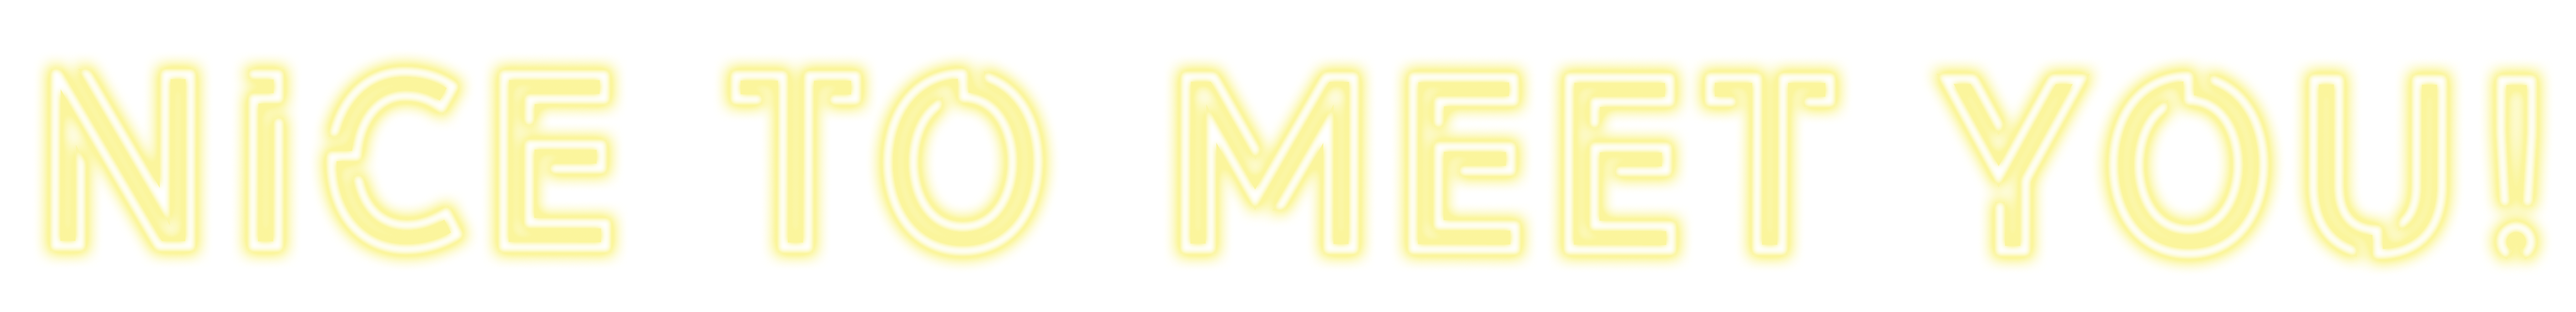
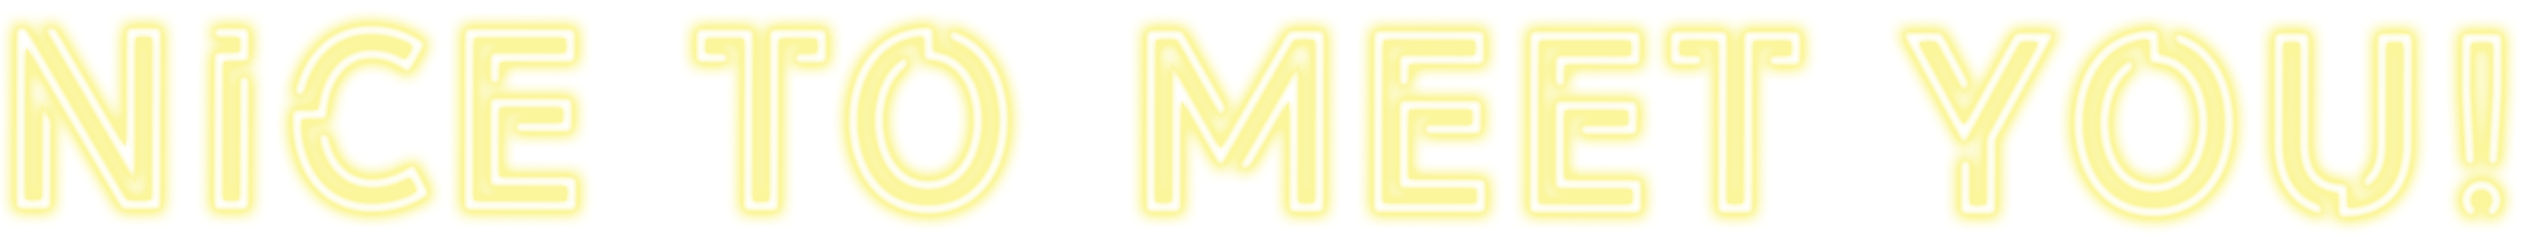
Create title for the about us page

diff --git a/api/public/css/styles.css b/api/public/css/styles.css
@@ -15,6 +15,11 @@ body, html {
     width: var(--title-image-width);
 }
 
+.title-container {
+    margin-top: var(--title-margin-top);
+    width: 100%;
+}
+
 .left-img {
     position: absolute;
     top: 0px;
@@ -30,13 +35,11 @@ body, html {
 }
 
 .container {
-    width: 70vw;
+    width: var(--container-width);
     min-height: 95vh;
     margin: auto;
     display: flex;
     flex-direction: column;
-    justify-content: center;
-    align-items: center;
     z-index: 10;
 }
 

diff --git a/api/public/css/variables.css b/api/public/css/variables.css
@@ -6,6 +6,8 @@
 }
 
 :root {
+    --container-width: 70vw;
+    --title-margin-top: 8rem;
     --logo-width: 40rem;
     --logo-margin-top: 3rem;
     --h1-color: var(--color-white);

diff --git a/api/public/css/typography.css b/api/public/css/typography.css
@@ -44,3 +44,7 @@ a {
 .text-yellow {
     color: var(--color-yellow) !important;
 }
+
+.text-purple {
+    color: var(--color-purple) !important;
+}

diff --git a/api/public/css/utility.css b/api/public/css/utility.css
@@ -1,0 +1,4 @@
+.flex-center {
+    align-items: center;
+    justify-content: center;
+}
